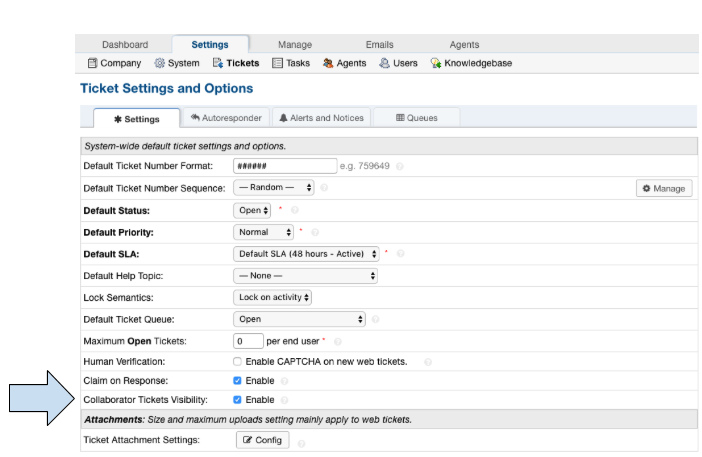
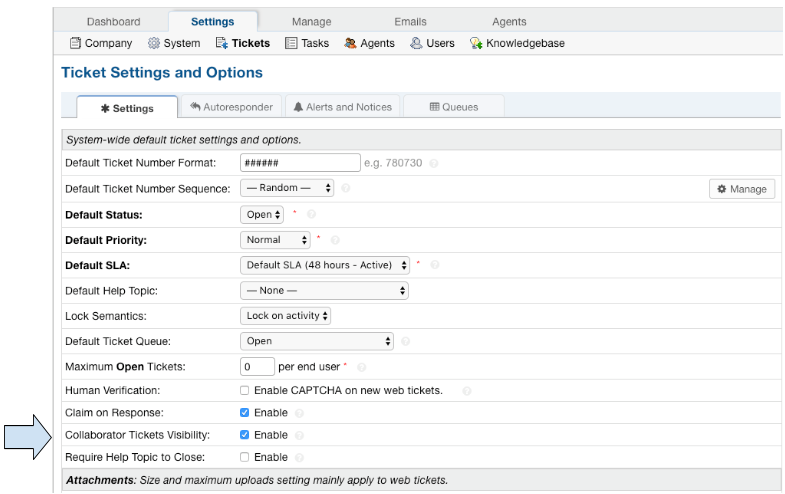
add documentation for requiring help topic to close ticket

diff --git a/Features/Require Help Topic.rst b/Features/Require Help Topic.rst
@@ -1,0 +1,35 @@
+Require Help Topic
+==================
+
+Admins now have the option to require a Help Topic before a Ticket can be closed.
+
+By default, this setting is NOT enabled.
+
+To enable this setting, go to:
+
+Admin Panel | Settings | Tickets | Require Help Topic to Close
+
+.. image:: ../_static/images/require_ht_setting.png
+  :alt: Require Help Topic
+
+If enabled, Tickets without a Help Topic will have a warning banner across the bottom of the page, a warning when trying to change the Ticket status to Closed, and a warning flag beside the Help Topic field when editing the Ticket.
+
+Ticket Without Help Topic:
+
+.. image:: ../_static/images/require_ht_ticket.png
+  :alt: Ticket Without Help Topic
+
+Ticket Warning Banner:
+
+.. image:: ../_static/images/require_ht_warning1.png
+  :alt: Ticket Warning Banner
+
+Status Warning Banner:
+
+.. image:: ../_static/images/require_ht_warning2.png
+  :alt: Status Warning Banner
+
+Edit Warning:
+
+.. image:: ../_static/images/require_ht_warning3.png
+  :alt: Edit Warning

diff --git a/Getting Started/v1-11 Overview.rst b/Getting Started/v1-11 Overview.rst
@@ -19,6 +19,7 @@ Features Outlined in this Document
 * Nested Knowledgebase Categories
 * Task Revamp
 * Release Assignment
+* Require Help Topic
 * Dashboard Statistics
 * Fix Most Redactor Issues
 * Ticket Preview Custom Fields
@@ -292,6 +293,22 @@ The Release Assignment feature has been with us for a while but only Department 
 Links to Documentation:
 |br|
 :doc:`Release Assignment <../Features/Release Assignment>`
+
+
+
+
+
+Require Help Topic
+------------------
+
+**Summary:**
+|br|
+Admins now have the option to require a Help Topic before a Ticket can be closed.
+
+Links to Documentation:
+|br|
+:doc:`Require Help Topic <../Features/Require Help Topic>`
+
 
 
 

diff --git a/index.rst b/index.rst
@@ -46,6 +46,7 @@ osTicket is a widely-used open source support ticket system. It seamlessly integ
    Features/Inline Edit
    Features/Nested Knowledgebase Categories
    Features/Release Assignment
+   Features/Require Help Topic
    Features/Task Revamp
    Features/Ticket Referral
 
